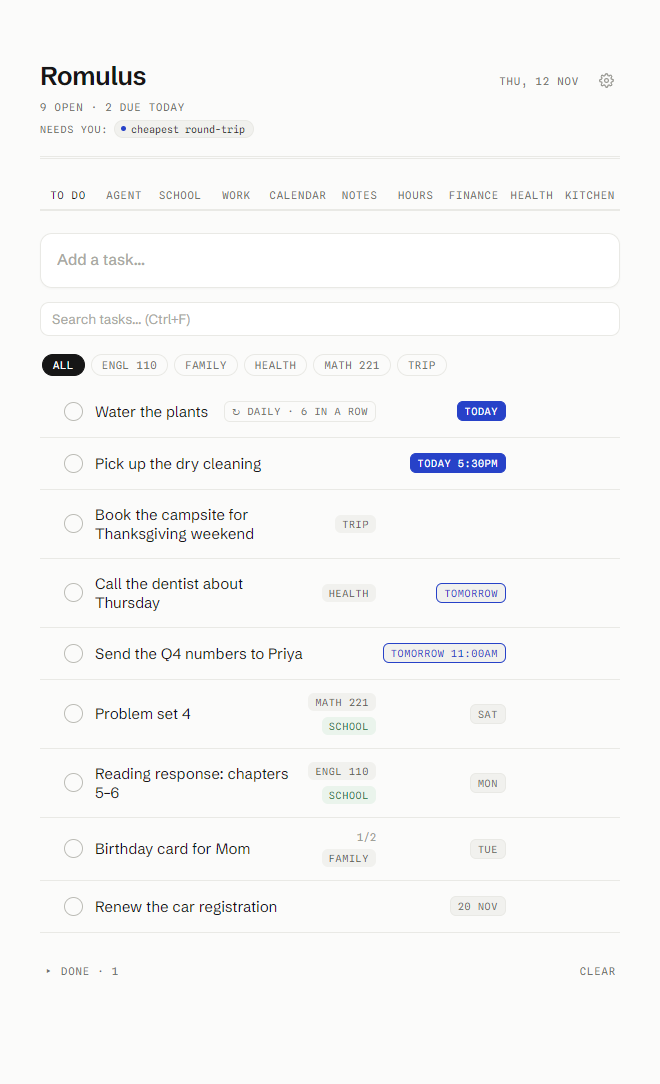
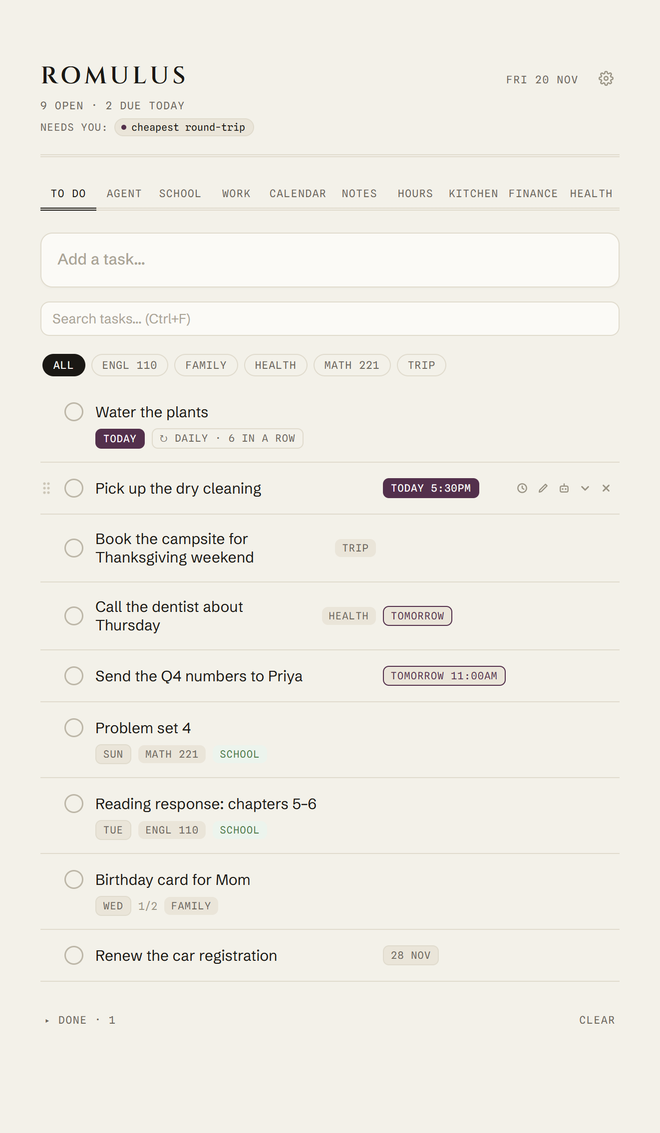
Site and README: the demo clip and screenshots in the parchment look
Re-recorded from the demo page with the new palette. The clip is 680x841
(the recording window is as tall as this screen allows), so the page's
image height follows.

diff --git a/site/index.html b/site/index.html
@@ -310,7 +310,7 @@ footer .supporters{flex-basis:100%;margin:6px 0 0;line-height:1.6}
   </div>
   <p class="others" id="others">Also for <a href="#download">every other platform</a>, or <a href="https://github.com/jamesbobdev-gif/Romulus#install">run it from source</a>.</p>
 
-  <figure class="shot demo"><img src="img/demo.gif" width="680" height="940" alt="A 40-second walkthrough: a grocery order typed on the Agent tab, the Agent building the cart and waiting for a yes, the order placed, then the Finance tab with accounts, net worth, subscriptions and stocks"><figcaption><b>40 seconds</b><span>a task, its yes, and the Finance tab</span></figcaption></figure>
+  <figure class="shot demo"><img src="img/demo.gif" width="680" height="841" alt="A 40-second walkthrough: a grocery order typed on the Agent tab, the Agent building the cart and waiting for a yes, the order placed, then the Finance tab with accounts, net worth, subscriptions and stocks"><figcaption><b>40 seconds</b><span>a task, its yes, and the Finance tab</span></figcaption></figure>
   <p class="demo-note">Made-up demo data.</p>
 </section>
 
